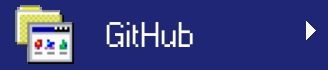
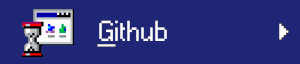
started on start menu

Changed region(s): [[0.03, 0.0625, 0.27, 0.9375], [0.3, 0.3125, 0.6, 0.75], [0.93, 0.2812, 0.99, 0.625]]

diff --git a/src/App.tsx b/src/App.tsx
@@ -1,34 +1,23 @@
-import{ forwardRef, useEffect, useRef, useState } from 'react';
+import{ useEffect, useState } from 'react';
+import React, { type ReactNode } from "react";
 import './App.css';
+import './StartMenu.css';
 import './TaskBar.css';
 import './Window.css';
 import Task from "./Task";
 import BtnStart from "./BtnStart";
 import ClockArea from "./ClockArea";
 import Taskbar from './Taskbar';
-
-interface OpenTask{
-  id: number;
-  title: string;
-  content: string;
-}
+import StartMenu from './StartMenu';
+import Program from './Program';
 
 function App(){
-  const [tasks, setTasks] = useState([{id: 1, title: "Task 1"}]);
+  const [tasks, setTasks] = useState([{id: 1, title: "About Me", content: Program(1)}]);
   const [taskHistory, setTaskHistory] = useState<number[]>([]);   
-  const [openContainers, setOpenContainers] = useState<OpenTask[]>(() =>
-    tasks.length > 0 ? 
-      [
-        {
-          id: tasks[0].id,
-          title: tasks[0].title,
-          content: `Content for ${tasks[0].title}`,
-        },
-      ]
-    : []
-  );
+  
   const [activeTaskId, setActiveTaskId] = useState<number>(tasks[0]?.id || 0);
   const [windowWidth, setWindowWidth] = useState(window.innerWidth);
+  const [startIsVisible, setStartVisible] = useState(false);
   useEffect(() => {
     const handleResize = () => setWindowWidth(window.innerWidth);
     window.addEventListener("resize", handleResize);
@@ -40,19 +29,49 @@ function App(){
   const isOverflow = (tasks.length + 1) * TASK_WIDTH > windowWidth - TASKBAR_BTN_WIDTH;
   // console.log("isOverflow ::: ", tasks.length+1," * ",TASK_WIDTH ," ~~ > ~~ ",windowWidth," - ",TASKBAR_BTN_WIDTH," - ", " --------------- ",  tasks.length * TASK_WIDTH, ">",windowWidth - TASKBAR_BTN_WIDTH);
 
-  function openNewTask(){
-    if(!isOverflow){
-      const newId = tasks.length + 1;
-      const newTask = { id: newId, title: `Task ${newId}` };
-      setTasks((prev) => [...prev, newTask]);
-      setOpenContainers((prev) => [
-        ...prev,
-      { id: newTask.id, title: newTask.title, content: `Content for ${newTask.title}` },
-      ]);
-      setActiveTask(newId);
+  const startOpen = () =>{
+    setStartVisible(!startIsVisible);
+  }
+
+  const startClose = () => {
+    setStartVisible(false);
+  }
+
+  const startAction = (key: string) => {
+    switch(key){
+      case 'about':
+        openNewTask(1,"about");
+        break;
+      case 'github':
+      openNewTask(2,"github");
+        break;
+      case 'linkedin':
+      openNewTask(3,"linkedin");
+        break;
     }
   }
- 
+  
+  function openNewTask(newid: number, newtitle: string){
+    if(!isOverflow){
+      let mydiv = Program(newid);
+      const newTask = { id: newid, title: newtitle, content: Program(newid)};
+      //setTasks((prev) => [...prev, newTask]);
+      tasks.push(newTask);
+      //setOpenContainers((prev) => [...prev, newTask]);
+      setActiveTask(newid);
+    }
+  }
+
+  function makeTaskBody(id: number){
+    switch(id){
+      case 0: return <></>;
+      case 1: return <div><img src='assets/ef3.jpg'/><p>My silly website</p></div>;
+      case 2: return <></>;
+      case 3: return <></>;
+    }
+    return <></>;
+  }
+  
   function setActiveTask(id: number) {
     setActiveTaskId(id);
     setTaskHistory((prev) => {
@@ -64,22 +83,19 @@ function App(){
   function handleTaskClick(id: number){
     const task = tasks.find((t) => t.id === id);
     if (!task) return;
-    if (openContainers.some((c) => c.id === id)) return;
-    setOpenContainers((prev) => [
-      ...prev, { id: task.id, title: task.title, content: `Content for ${task.title}` },
-    ]);
-    setActiveTaskId(id);
+    if (tasks.some((c) => c.id === id)) return;
+    setActiveTask(id);
   }
 
   function handleTaskClose(id: number){
     setTasks((prev) => prev.filter((t) => t.id !== id));
-    setOpenContainers((prev) => prev.filter((c) => c.id !== id));
+    //setOpenContainers((prev) => prev.filter((c) => c.id !== id));
     setTaskHistory((prev) => prev.filter((tid) => tid !== id));
     if (activeTaskId === id) {
       const lastActive = [...taskHistory]
       .filter((tid) => tid !== id)
       .reverse()
-      .find((tid) => openContainers.some((c) => c.id === tid));
+      .find((tid) => tasks.some((c) => c.id === tid));
       setActiveTask(lastActive || 0);
     }
   }
@@ -88,25 +104,37 @@ function App(){
     <div className="layout">
       <main className="main-content">
         <div className="window-space">
-         {openContainers.map((container) => (
+         {tasks.map((task) => (
             <Task
-              key={container.id}
-              id={container.id}
-              title={container.title}
-              content={container.content}
-              active={container.id === activeTaskId}
+              key={task.id}
+              id={task.id}
+              title={task.title}
+              content={task.content}
+              active={task.id === activeTaskId}
               onClose={handleTaskClose}
-              onActivate={() => setActiveTask(container.id)} 
+              onActivate={() => setActiveTask(task.id)} 
             />
           ))}
         </div>
         <div className="desktop-space">
-          <button onClick={openNewTask}>New Task</button>
+          
+          {startIsVisible && <div className="app-start-menu">
+            <StartMenu 
+              onToggle={startAction}
+              onStartClose={startClose}
+              startTaskButtonKeys={[
+                1,2,3
+              ]}
+            />
+          </div>}
+
         </div>
       </main>
       <div className="task-bar-wrapper">
         <div className="task-bar">
-          <BtnStart onClick={openNewTask} />
+          
+          <BtnStart onClick={startOpen} />
+
           <Taskbar tasks={tasks} onTaskClick={handleTaskClick} />
           <ClockArea />
         </div>

diff --git a/src/Program.tsx b/src/Program.tsx
@@ -1,19 +1,19 @@
 import{useRef, useState} from "react";
 import React, { type ReactNode } from "react";
-import "./Window.css";
-import Program from "./Program";
-
+/*
 interface TaskProps{
   id: number;
   title: string;
-  content: typeof Program; 
+  content: ReactNode;
   x?: number;   // trying to make absolute position windows
   y?: number;
   active?: boolean;
   onActivate: () => void;
   onClose: (id: number) => void;
 }
+*/
 
+/*
 function Task({ id, title, content, x = 0, y = 0, onClose, active = false, onActivate }: TaskProps){
   const taskRef = useRef<HTMLDivElement>(null);
   const col = (id - 1) % 4;             
@@ -67,42 +67,24 @@ function Task({ id, title, content, x = 0, y = 0, onClose, active = false, onAct
       window.removeEventListener("mouseup", handleMouseUp);
     };
   }, [dragging]);  
-
-return (
-  <div
-  ref={taskRef}
-  className="task-container"
-  style={{
-    top: position.top,
-    left: position.left,
-    zIndex: active ? 1000 : 1,
-  }}
-  onMouseDown={(e) => {
-    onActivate();
-    if ((e.target as HTMLElement).closest(".task-header")) {
-      setDragging(true);
-      offset.current = {
-        x: e.clientX - taskRef.current!.offsetLeft,
-        y: e.clientY - taskRef.current!.offsetTop,
-      };
-    }
-  }}>
-    <div className={`task-header ${dragging ? "dragging" : ""} 
-    ${active ? "active" : ""}`} onMouseDown={handleMouseDown}>
-      <h2 className="task-title">{title}</h2>
-      <button className="task-close-btn" onClick={() => onClose(id)}>
-        X
-      </button>
-    </div>
-    <Program/>
-  </div>
-)}
-
-export default Task;
-
-
-/*
-
-major bugs in here, trying to make the body of the task windows
-a type "Program" but its not working out well
 */
+
+interface ProgramProps{
+  progid: number;
+}
+
+const Program: React.FC<ProgramProps> = ({ progid }) => {
+  switch(progid){
+    case 1: 
+    console.log(`progid ${progid}`)  
+    return (
+      <div>
+        <img src='assets/ef3.jpg'/>
+        <p>My silly website</p>
+      </div>
+    );
+    case 2: return (<div></div>);
+  }
+}
+
+export default Program;

diff --git a/src/StartMenu.css b/src/StartMenu.css
@@ -1,0 +1,54 @@
+  .start-menu-layout {
+    display: grid;
+    background-image: './assets/StartGithub.jpg';
+    height: auto;
+    width: 100%;
+    align-content: baseline;
+  }
+
+  .start-menu-btn-container {
+    grid-area: 1 / 1;
+
+  }
+
+  .start-menu-task-about {
+    position: relative;
+    top: 580%; left: 60px;
+    background-color: #bbb;
+    background-image: url('assets/StartAbout.jpg');
+    min-width: 300px;
+    max-width: max-content;
+    min-height: 64px;
+  }
+
+  .start-menu-task-about:hover {
+    background-image: url('assets/StartAboutHover.jpg');
+  }
+
+  .start-menu-task-github {
+    position: relative;
+    top: 372%; left: 60px;
+    background-color: #bbb;
+    background-image: url('assets/StartGithub.jpg');
+    min-width: 300px;
+    max-width: max-content;
+    min-height: 64px;
+  }
+
+  .start-menu-task-github:hover {
+    background-image: url('assets/StartGitHubHover.jpg');
+  }
+
+  .start-menu-task-linkedin {
+    position: relative;
+    top: 156%; left: 60px;
+    background-color: #888;
+    background-image: url('assets/StartGithub.jpg');
+    min-width: 300px;
+    max-width: max-content;
+    min-height: 64px;
+  }
+
+  .start-menu-task-linkedin:hover {
+    background-image: url('assets/StartGitHubHover.jpg');
+  }

diff --git a/src/StartMenu.tsx b/src/StartMenu.tsx
@@ -1,0 +1,28 @@
+
+
+interface StartMenuProps {
+  onToggle: (id: string) => void;
+  onStartClose: () => void;
+  startTaskButtonKeys: number;
+}
+
+const StartMenu: React.FC<StartMenuProps> = ({ 
+  onToggle, onStartClose, startTaskButtonKeys }) => {
+
+  return (
+    <div className="start-menu-layout">
+      {startTaskButtonKeys.map((key) => (
+        <button
+          title={`menu-btn-${key}`}
+          className={`start-menu-task-${key}`}
+          onClick={() => {
+            onToggle(key);
+            onStartClose();
+          }}>
+          </button>
+      ))}
+    </div>
+  );
+};
+
+export default StartMenu;

diff --git a/src/App.css b/src/App.css
@@ -21,11 +21,24 @@
 }
 
 .desktop-space {
-  display: grid;
-  justify-content: center;
+  display: flex;
+  width: 100vw;
+  z-index: 1;
 }
 
 .window-space {
+  z-index: 0;
+}
+
+.app-start-menu {
+  position: absolute;
+  bottom: 75px; left: 0;
+  min-width: 370px;
+  max-width: 50vw;
+  min-height: 540px;
+  max-height: 80vh;
+  align-items:baseline;
+  background-image: url('assets/StartMenuBg.jpg')
 }
 
 .task-bar-wrapper {
@@ -37,6 +50,7 @@
   display: flex;
   position: absolute;
   width: 100vw;
+  min-height: 74px;
   align-items: center;
   bottom: 0;
   margin-top: 8px;
